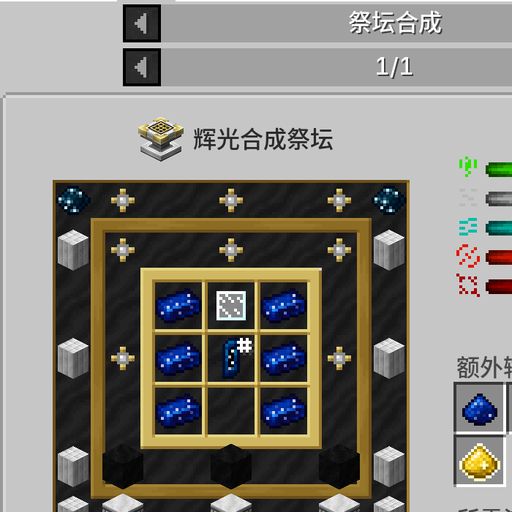
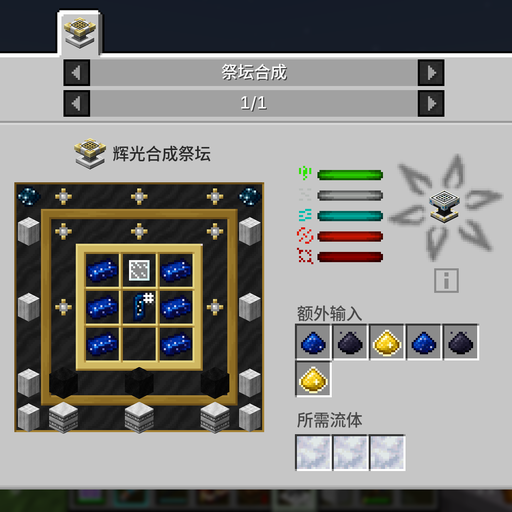
1.0.3：图标换成作者截的整页图

diff --git a/README_EN.md b/README_EN.md
@@ -7,7 +7,7 @@ The stock page is a fixed 148×220 background. With JEI's title bar the recipe n
 | Field | Value |
 |---|---|
 | Mod id | `as_jei_fix` |
-| Version | 1.0.2 |
+| Version | 1.0.3 |
 | Requires | Minecraft 1.21.1, NeoForge 21.1.x, Astral Sorcery 2.0.3+, JEI 19.x |
 | Side | Client |
 | License | MIT |

diff --git a/README.md b/README.md
@@ -7,7 +7,7 @@
 | 项目 | 值 |
 |---|---|
 | 模组 ID | `as_jei_fix` |
-| 版本 | 1.0.2 |
+| 版本 | 1.0.3 |
 | 依赖 | Minecraft 1.21.1、NeoForge 21.1.x、Astral Sorcery 2.0.3+、JEI 19.x |
 | 环境 | 客户端（页面在客户端渲染） |
 | 许可证 | MIT |
